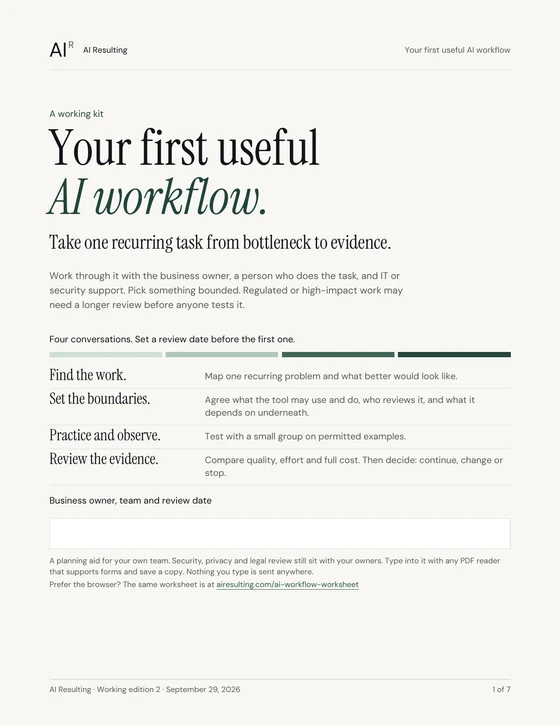
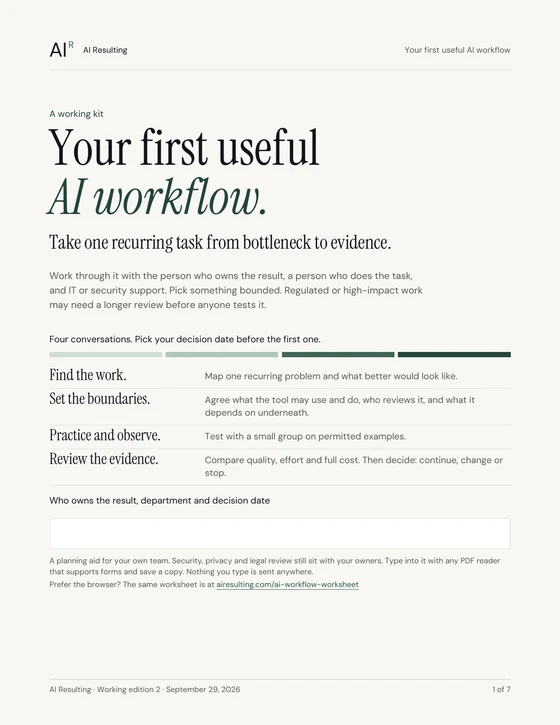
Worksheet and PDF: clearer owner, department and decision-date labels
Claude-Session: https://claude.ai/code/session_01DbbTFTDSU76yeDenWkyFKP

Changed region(s): [[0.0911, 0.3641, 0.7589, 0.4248], [0.0911, 0.6676, 0.4857, 0.6979], [0.2429, 0.4552, 0.5768, 0.4855]]

diff --git a/ai-workflow-starter-kit.html b/ai-workflow-starter-kit.html
@@ -2,7 +2,7 @@
 <html lang="en" data-palette="cinematic" data-tone="ledger"><head><meta charset="utf-8"><meta name="viewport" content="width=device-width,initial-scale=1"><meta name="robots" content="noindex,nofollow"><title>AI Workflow Starter Kit for Mid-Market Leaders | AI Resulting</title><meta name="description" content="A practical AI workflow kit: choose a business task, set boundaries, check what it depends on underneath, compare costs and review the evidence."><script>const initialPalette=new URLSearchParams(location.search).get("palette");if(["blue","evergreen","vermilion","nocturne","cinematic"].includes(initialPalette))document.documentElement.dataset.palette=initialPalette;</script><link rel="stylesheet" href="style.css?v=13"><link rel="stylesheet" href="dimension-colors.css?v=24"><link rel="icon" href="assets/favicon.svg" type="image/svg+xml"><link rel="stylesheet" href="launch-polish.css?v=27"><link rel="icon" type="image/png" sizes="96x96" href="assets/favicon-96.png"><link rel="apple-touch-icon" sizes="180x180" href="assets/apple-touch-icon.png"><meta name="theme-color" content="#F8F7F3"><link rel="canonical" href="https://airesulting.com/ai-workflow-starter-kit"><meta property="og:type" content="website"><meta property="og:site_name" content="AI Resulting"><meta property="og:title" content="AI Workflow Starter Kit for Mid-Market Leaders | AI Resulting"><meta property="og:description" content="A practical AI workflow kit: choose a business task, set boundaries, check what it depends on underneath, compare costs and review the evidence."><meta property="og:url" content="https://airesulting.com/ai-workflow-starter-kit"><script type="application/ld+json">{"@context": "https://schema.org", "@graph": [{"@type": "Organization", "@id": "https://airesulting.com/#organization", "name": "AI Resulting", "url": "https://airesulting.com/", "logo": "https://airesulting.com/assets/ai-resulting-lockup.svg"}, {"@type": "WebSite", "@id": "https://airesulting.com/#website", "name": "AI Resulting", "url": "https://airesulting.com/"}, {"@type": "WebPage", "@id": "https://airesulting.com/ai-workflow-starter-kit#page", "url": "https://airesulting.com/ai-workflow-starter-kit", "name": "AI Workflow Starter Kit for Mid-Market Leaders \u2014 AI Resulting", "description": "A practical AI workflow kit: choose a business task, set boundaries, check what it depends on underneath, compare costs and review the evidence.", "isPartOf": {"@id": "https://airesulting.com/#website"}}]}</script><link rel="stylesheet" href="ledger.css?v=7"><meta property="og:image" content="https://airesulting.com/assets/og-image.png"><meta property="og:image:width" content="1200"><meta property="og:image:height" content="630"><meta name="twitter:card" content="summary_large_image"><meta name="twitter:image" content="https://airesulting.com/assets/og-image.png"></head>
 <body><a class="skip" href="#main">Skip to content</a><header><a class="brand" href="index.html" aria-label="AI Resulting home"><span class="brand-monogram" aria-hidden="true">AI<sup class="brand-r">R</sup></span><span class="brand-name">AI Resulting</span></a><nav aria-label="Main navigation"><details class="fmenu"><summary>The six dimensions <span class="chev" aria-hidden="true">⌄</span></summary><div class="fmenu-panel"><a class="fmenu-all" href="index.html#foundations">Explore all six dimensions <span aria-hidden="true">↗</span></a><a href="strategic-direction.html"><span class="loc" aria-hidden="true"><i></i><i></i><i></i><i></i><i></i><i class="on"></i></span><span><b>Strategic direction</b><small>Goals, owners, measures</small></span></a><a href="data-readiness.html"><span class="loc" aria-hidden="true"><i></i><i></i><i></i><i></i><i class="on"></i><i></i></span><span><b>Data readiness</b><small>Connected, trusted information</small></span></a><a href="technology-infrastructure.html"><span class="loc" aria-hidden="true"><i></i><i></i><i></i><i class="on"></i><i></i><i></i></span><span><b>Technology infrastructure</b><small>Infrastructure that can carry it</small></span></a><a href="governance-security.html"><span class="loc" aria-hidden="true"><i></i><i></i><i class="on"></i><i></i><i></i><i></i></span><span><b>Governance &amp; security</b><small>Access, protection, clear rules</small></span></a><a href="experience-layer.html"><span class="loc" aria-hidden="true"><i></i><i class="on"></i><i></i><i></i><i></i><i></i></span><span><b>Experience layer</b><small>Where customers and staff feel it</small></span></a><a href="workforce-adoption.html"><span class="loc" aria-hidden="true"><i class="on"></i><i></i><i></i><i></i><i></i><i></i></span><span><b>Workforce &amp; adoption</b><small>People who actually use it</small></span></a></div></details><a href="what-we-source.html">What we source</a><a href="our-approach.html">Our approach</a><a href="the-signal.html">The Signal</a></nav><a class="header-cta" href="start.html">See where AI stands <span>↗</span></a></header>
 <main id="main" class="editorial-page"><section class="section editorial-hero"><div><p class="eyebrow">The Signal · working kit</p><h1>Your first useful <br><em>AI workflow.</em></h1><p class="editorial-lead">A working kit for leaders choosing their first AI workflow.</p><p>Choose one bottleneck. Give the people doing the work a voice. Leave with a scoped task, clear boundaries, and evidence for the next step.</p><a class="button primary" href="ai-workflow-worksheet.html">Open the worksheet <span>↗</span></a></div><aside class="working-brief"><p class="eyebrow">Online or on paper. Something to use.</p><h2>Bring it <br>to the table.</h2><dl><dt>The work</dt><dd>A workflow brief and a baseline.</dd><dt>The foundation</dt><dd>What it depends on underneath: systems, access, network and review.</dd><dt>The people</dt><dd>A learning plan and human review boundaries.</dd><dt>The commitment</dt><dd>A cost worksheet and a continue, change, or stop review.</dd></dl><p>Online worksheet or 7-page fillable PDF · 23 questions · Edition 2</p></aside></section>
-<section class="section approach-method"><div><p class="eyebrow">How it works</p><h2>Four conversations. <br>Your pace.</h2><p>Set a review date before the first one. An end date is what turns a pilot into a decision. Complex or high-impact work may need a longer review.</p></div><div class="editorial-rows"><article><h3>Find the work.</h3><p>Choose a recurring task that is understandable, measurable and reversible. Record the time, rework, and effect on people today. Check whether a process change or an existing tool is enough.</p></article><article><h3>Set the boundaries.</h3><p>Agree which information may be used, which actions are off limits, who reviews the output, and when a person takes over. If an agent can act, define its access and limits before a live test. Then check what it depends on underneath: the systems and data, who can reach them, whether the network can carry it, and what review it needs.</p></article><article><h3>Practice with the team.</h3><p>Try representative examples and a difficult exception in an approved environment. Give people time to learn. Ask what improves, what creates extra work, and what should remain in their hands.</p></article><article><h3>Review what happened.</h3><p>Compare quality, effort, service and full cost. Decide whether to continue, change or stop. Name the next action and who owns it.</p></article></div></section>
+<section class="section approach-method"><div><p class="eyebrow">How it works</p><h2>Four conversations. <br>Your pace.</h2><p>Pick your decision date before the first one. An end date is what turns a pilot into a decision. Complex or high-impact work may need a longer review.</p></div><div class="editorial-rows"><article><h3>Find the work.</h3><p>Choose a recurring task that is understandable, measurable and reversible. Record the time, rework, and effect on people today. Check whether a process change or an existing tool is enough.</p></article><article><h3>Set the boundaries.</h3><p>Agree which information may be used, which actions are off limits, who reviews the output, and when a person takes over. If an agent can act, define its access and limits before a live test. Then check what it depends on underneath: the systems and data, who can reach them, whether the network can carry it, and what review it needs.</p></article><article><h3>Practice with the team.</h3><p>Try representative examples and a difficult exception in an approved environment. Give people time to learn. Ask what improves, what creates extra work, and what should remain in their hands.</p></article><article><h3>Review what happened.</h3><p>Compare quality, effort, service and full cost. Decide whether to continue, change or stop. Name the next action and who owns it.</p></article></div></section>
 <section class="section philosophy-band"><p class="eyebrow">An example to make it concrete</p><h2>Explain a variance. <br>Keep a person accountable.</h2><p>A finance team might test a draft explanation of planned versus actual spend using an approved, de-identified sample. A finance owner checks the sources and interpretation. The tool does not approve spending or change accounting records.</p><p>That is a bounded task with a visible review point. It also exposes useful questions about data, permissions, integration, and the time needed to check the answer.</p><a class="text-link" href="data-readiness.html">Explore how business context changes the answer ↗</a></section>
 <section class="section approach-method" id="get-the-kit"><div><p class="eyebrow">Take it into the conversation</p><h2>Make the <br>first move useful.</h2><p>Fill it in online, or have the fillable PDF emailed to you. It includes a reusable LLM instruction, team learning prompts, a boundaries worksheet, a foundation check and a full-cost comparison.</p><p class="result-note">Original AIR material informed by current research. A planning aid, not a security certification or a ready-to-adopt policy.</p><a class="text-link" href="ai-workflow-worksheet.html">Open the worksheet online ↗</a> <a class="text-link" href="assets/your-first-useful-ai-workflow.pdf" download>Download the PDF ↓</a></div><div class="resource-form-wrap"><form id="resource-form"><label for="resource-email">Work email</label><input type="email" id="resource-email" name="email" required autocomplete="email" maxlength="254"><label for="resource-name">Name</label><input id="resource-name" name="name" required autocomplete="name" maxlength="100"><label class="contact-consent"><input type="checkbox" name="deliveryConsent" required><span>Email me this working kit.</span></label><label class="contact-consent"><input type="checkbox" name="conversationConsent"><span>I’d also like an advisor to contact me about applying it to my business.</span></label><input class="hp" type="text" name="website" tabindex="-1" autocomplete="off" aria-hidden="true" style="position:absolute;left:-9999px;width:1px;height:1px;opacity:0"><p class="result-note">Resource delivery and an advisor conversation are separate choices. Neither subscribes you to marketing.</p><button type="submit" class="button primary">Email me the kit <span>↗</span></button></form><p id="resource-status" role="status" hidden></p></div></section>
 <section class="section research-note"><p class="eyebrow">Why this topic, now</p><p>Current research from <a href="https://www.mckinsey.com/capabilities/quantumblack/our-insights/the-state-of-ai">McKinsey</a> and <a href="https://rsmus.com/insights/services/digital-transformation/rsm-middle-market-ai-survey.html">RSM</a> describes the gap between individual AI use and broader business impact. <a href="https://www.deloitte.com/us/en/about/press-room/state-of-ai-report-2026.html">Deloitte</a> highlights the need for stronger governance as agents expand. This kit translates those themes into an original AIR working exercise; it is not endorsed by those firms.</p></section><section class="closing"><p class="eyebrow">Talk to a Resultant</p><h2>Want help choosing the first workflow?</h2><button class="button primary" data-contact>Talk to a Resultant <span>↗</span></button><p class="closing-alt"><a href="start.html">Or see where AI stands in your company ↗</a></p></section></main><footer class="air-footer"><div class="air-footer-in"><a class="brand" href="index.html" aria-label="AI Resulting home"><span class="brand-monogram" aria-hidden="true">AI<sup class="brand-r">R</sup></span></a><span>AI and technology advisory for mid-market companies.</span><nav aria-label="Footer"><a href="index.html#foundations">The six dimensions</a><a href="our-approach.html">Our approach</a><a href="privacy.html">Privacy &amp; terms</a><a href="mailto:hello@airesulting.com">hello@airesulting.com</a></nav><span>© 2026 AI Resulting</span></div></footer>

diff --git a/ai-workflow-worksheet.html b/ai-workflow-worksheet.html
@@ -6,14 +6,14 @@
   <p class="ws-kicker">Working kit · worksheet</p>
   <h1>Your first useful <em>AI workflow.</em></h1>
   <p class="ws-lead">Take one recurring task from bottleneck to evidence.</p>
-  <p>Work through it with the business owner, a person who does the task, and IT or security support. Pick something bounded. Regulated or high-impact work may need a longer review before anyone tests it.</p>
+  <p>Work through it with the person who owns the result, a person who does the task, and IT or security support. Pick something bounded. Regulated or high-impact work may need a longer review before anyone tests it.</p>
   <p class="ws-privacy">Your answers save in this browser as you type. Nothing is sent to anyone unless you choose to send it. Prefer paper? <a href="assets/your-first-useful-ai-workflow.pdf" download>Get the fillable PDF</a>.</p>
   <div class="ws-grid3">
-    <label>Business owner<input name="owner_name" autocomplete="off"></label>
-    <label>Team<input name="owner_team" autocomplete="off"></label>
-    <label>Review date<input type="date" name="owner_date"></label>
+    <label>Who owns the result<input name="owner_name" autocomplete="off"></label>
+    <label>Department<input name="owner_team" autocomplete="off"></label>
+    <label>Decision date<input type="date" name="owner_date"></label>
   </div>
-  <p class="ws-note">Four conversations. Set a review date before the first one.</p>
+  <p class="ws-note">Four conversations. Pick your decision date before the first one.</p>
 </section>
 
 <nav class="ws-steps" aria-label="Worksheet sections">
@@ -83,7 +83,7 @@
   <p>Continue, change the approach, or not yet. Any of the three is a good result if the evidence supports it.</p>
   <label>What improved? What did quality, effort, cost and team feedback show?<textarea name="evidence" rows="3"></textarea></label>
   <label>Continue, change or stop, with the reason and the risks still open<textarea name="choice" rows="3"></textarea></label>
-  <label>Next action, accountable owner, evidence needed and review date<textarea name="next" rows="3"></textarea></label>
+  <label>Next action, accountable owner, evidence needed and follow-up date<textarea name="next" rows="3"></textarea></label>
 </section>
 </form>
 
@@ -116,4 +116,4 @@
 <div class="ws-print-head" aria-hidden="true"><span class="ws-mark">AI<sup>R</sup></span> AI Resulting · Your first useful AI workflow · <span id="ws-print-date"></span></div>
 </main>
 <footer class="air-footer"><div class="air-footer-in"><a class="brand" href="index.html" aria-label="AI Resulting home"><span class="brand-monogram" aria-hidden="true">AI<sup class="brand-r">R</sup></span></a><span>AI and technology advisory for mid-market companies.</span><nav aria-label="Footer"><a href="index.html#foundations">The six dimensions</a><a href="our-approach.html">Our approach</a><a href="privacy.html">Privacy &amp; terms</a><a href="mailto:hello@airesulting.com">hello@airesulting.com</a></nav><span>© 2026 AI Resulting</span></div></footer>
-<script src="app.js?v=25"></script><script src="worksheet.js?v=1"></script><script>(function(){var fm=document.querySelector('.fmenu');if(!fm)return;document.addEventListener('click',function(e){if(fm.open&&!fm.contains(e.target))fm.open=false;});document.addEventListener('keydown',function(e){if(e.key==='Escape'&&fm.open){fm.open=false;fm.querySelector('summary').focus();}});})();</script><script src="motion.js?v=2"></script><script src="intake.js?v=1"></script><script defer src="/_vercel/insights/script.js"></script></body></html>
+<script src="app.js?v=25"></script><script src="worksheet.js?v=2"></script><script>(function(){var fm=document.querySelector('.fmenu');if(!fm)return;document.addEventListener('click',function(e){if(fm.open&&!fm.contains(e.target))fm.open=false;});document.addEventListener('keydown',function(e){if(e.key==='Escape'&&fm.open){fm.open=false;fm.querySelector('summary').focus();}});})();</script><script src="motion.js?v=2"></script><script src="intake.js?v=1"></script><script defer src="/_vercel/insights/script.js"></script></body></html>

diff --git a/worksheet.js b/worksheet.js
@@ -70,7 +70,7 @@
  /* plain-text summary for the handoff */
  function summary(){
   var out=[], owner=['owner_name','owner_team','owner_date'].map(function(n){ var f=main.querySelector('[name='+n+']'); return f&&f.value.trim(); });
-  out.push('Business owner: '+(owner[0]||'-')+' | Team: '+(owner[1]||'-')+' | Review date: '+(owner[2]||'-'));
+  out.push('Owns the result: '+(owner[0]||'-')+' | Department: '+(owner[1]||'-')+' | Decision date: '+(owner[2]||'-'));
   [].forEach.call(form.querySelectorAll('[data-part]'),function(sec){
    out.push('', '## '+sec.querySelector('.ws-kicker').textContent);
    [].forEach.call(sec.querySelectorAll('label'),function(l){
